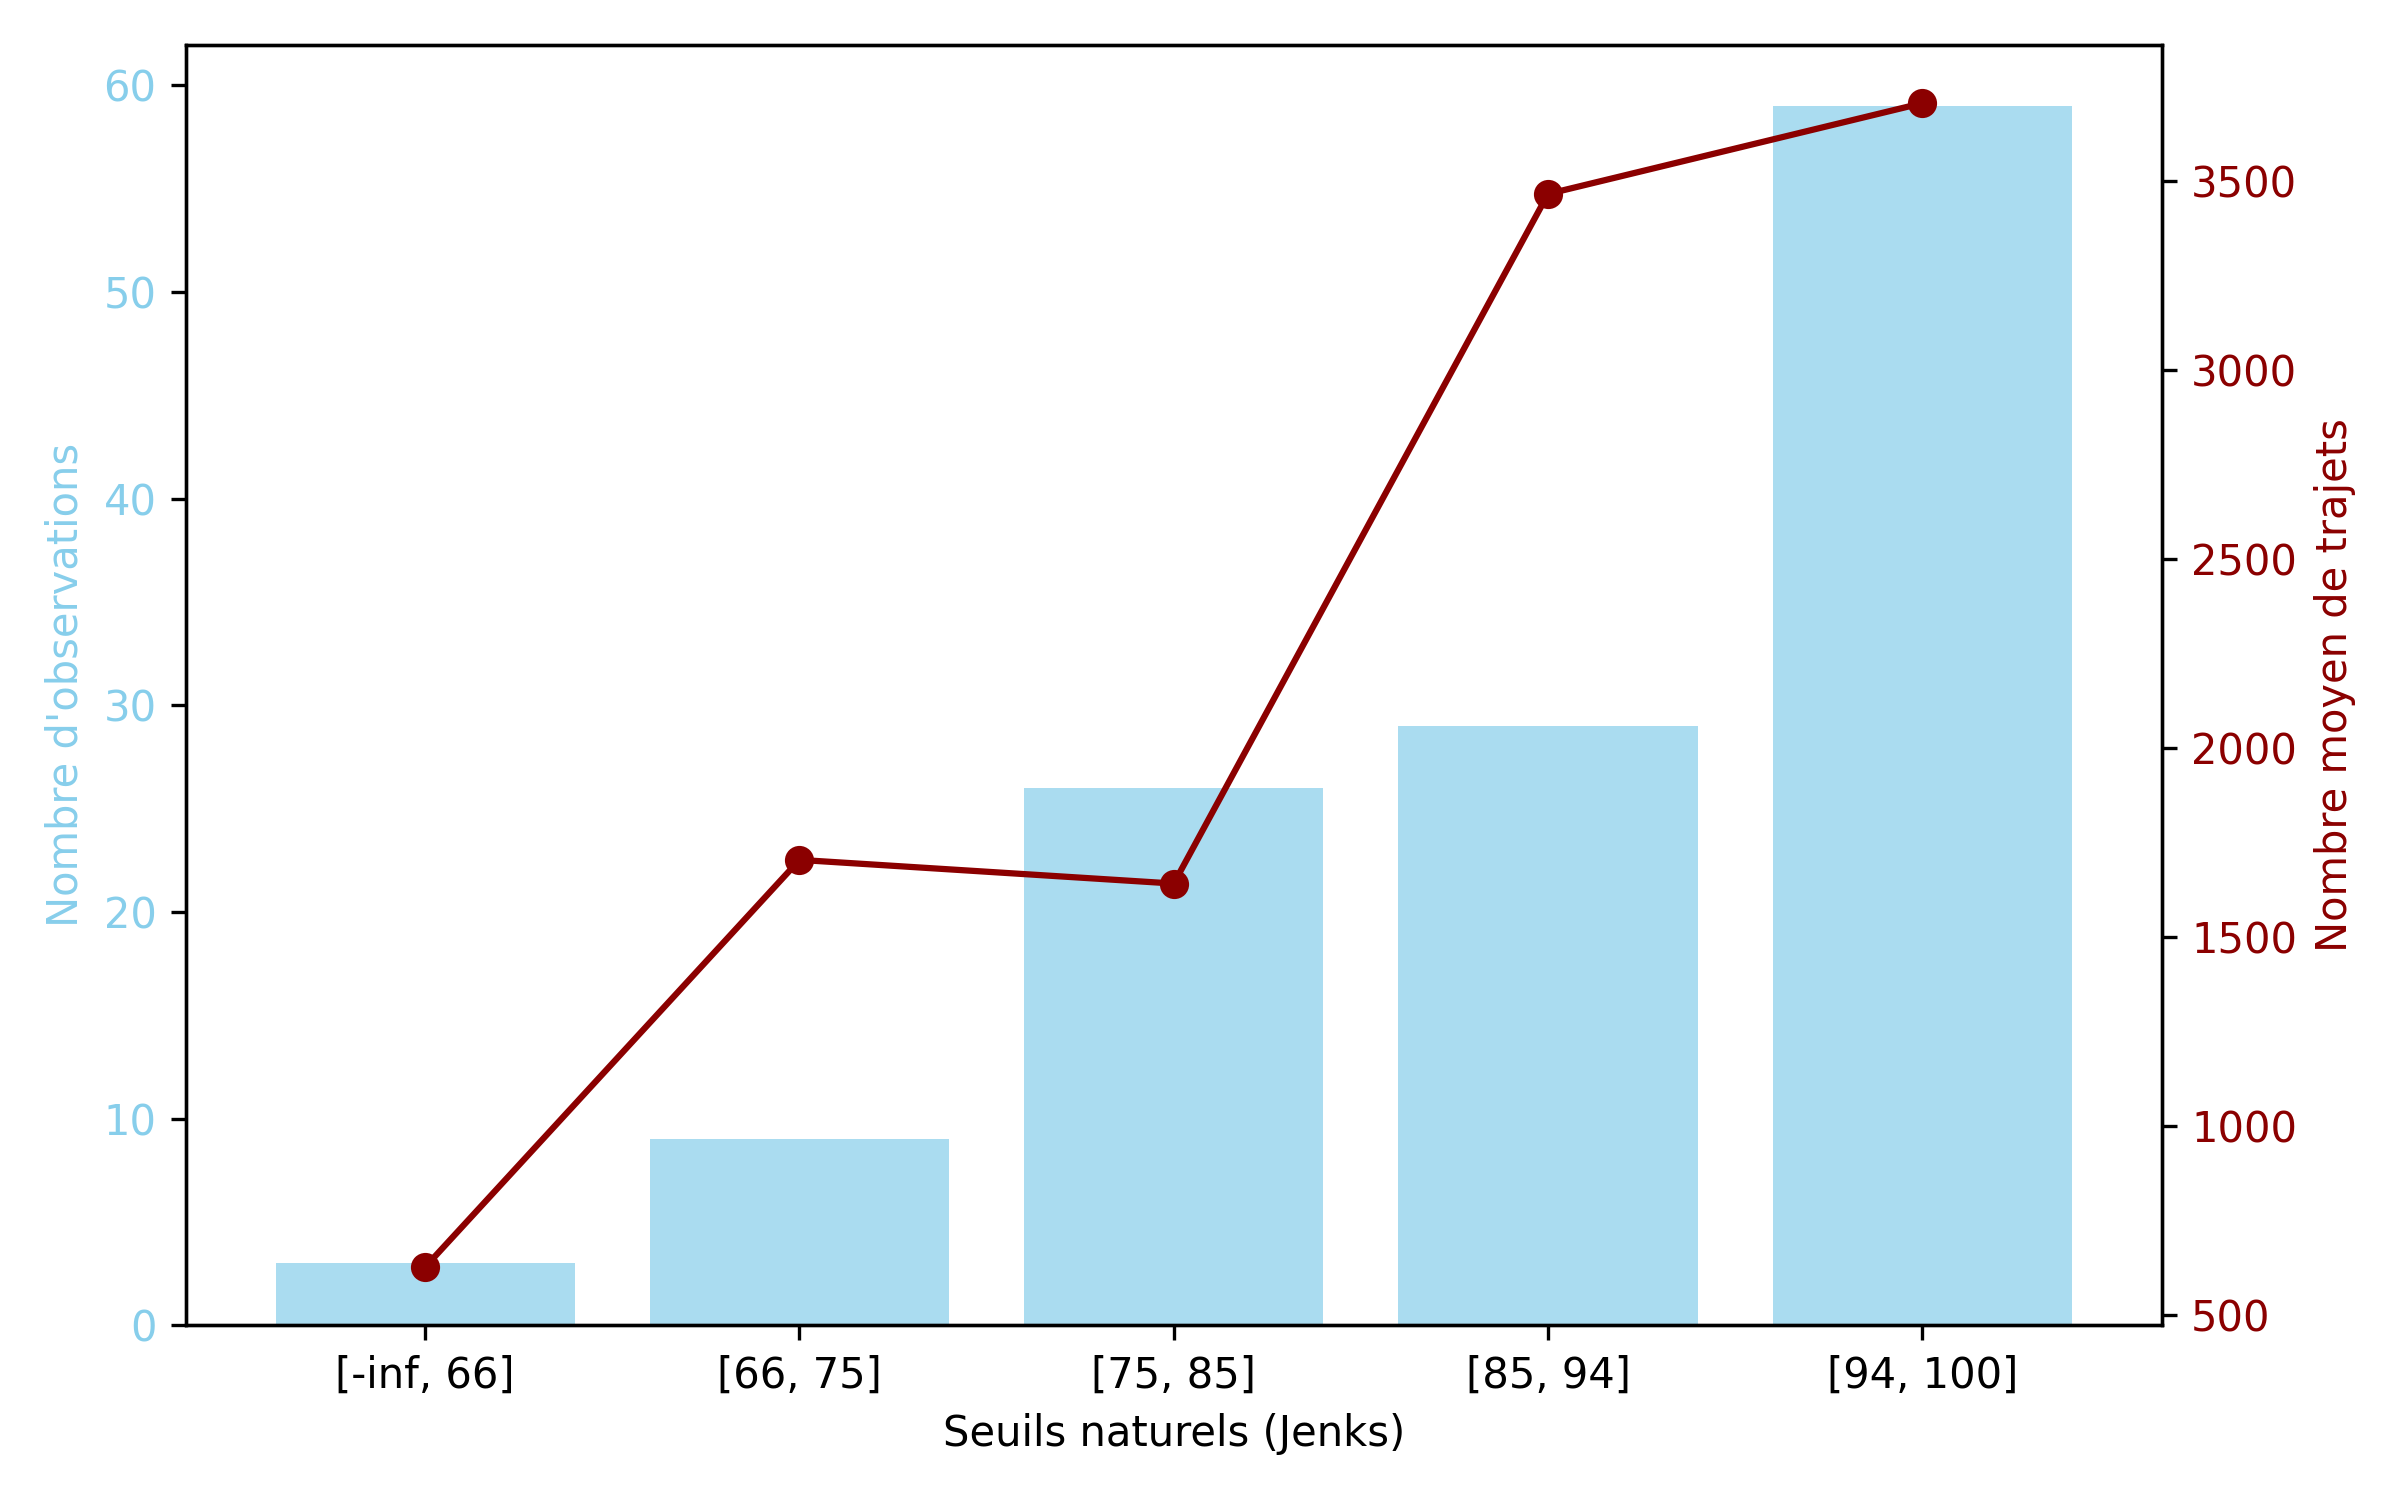
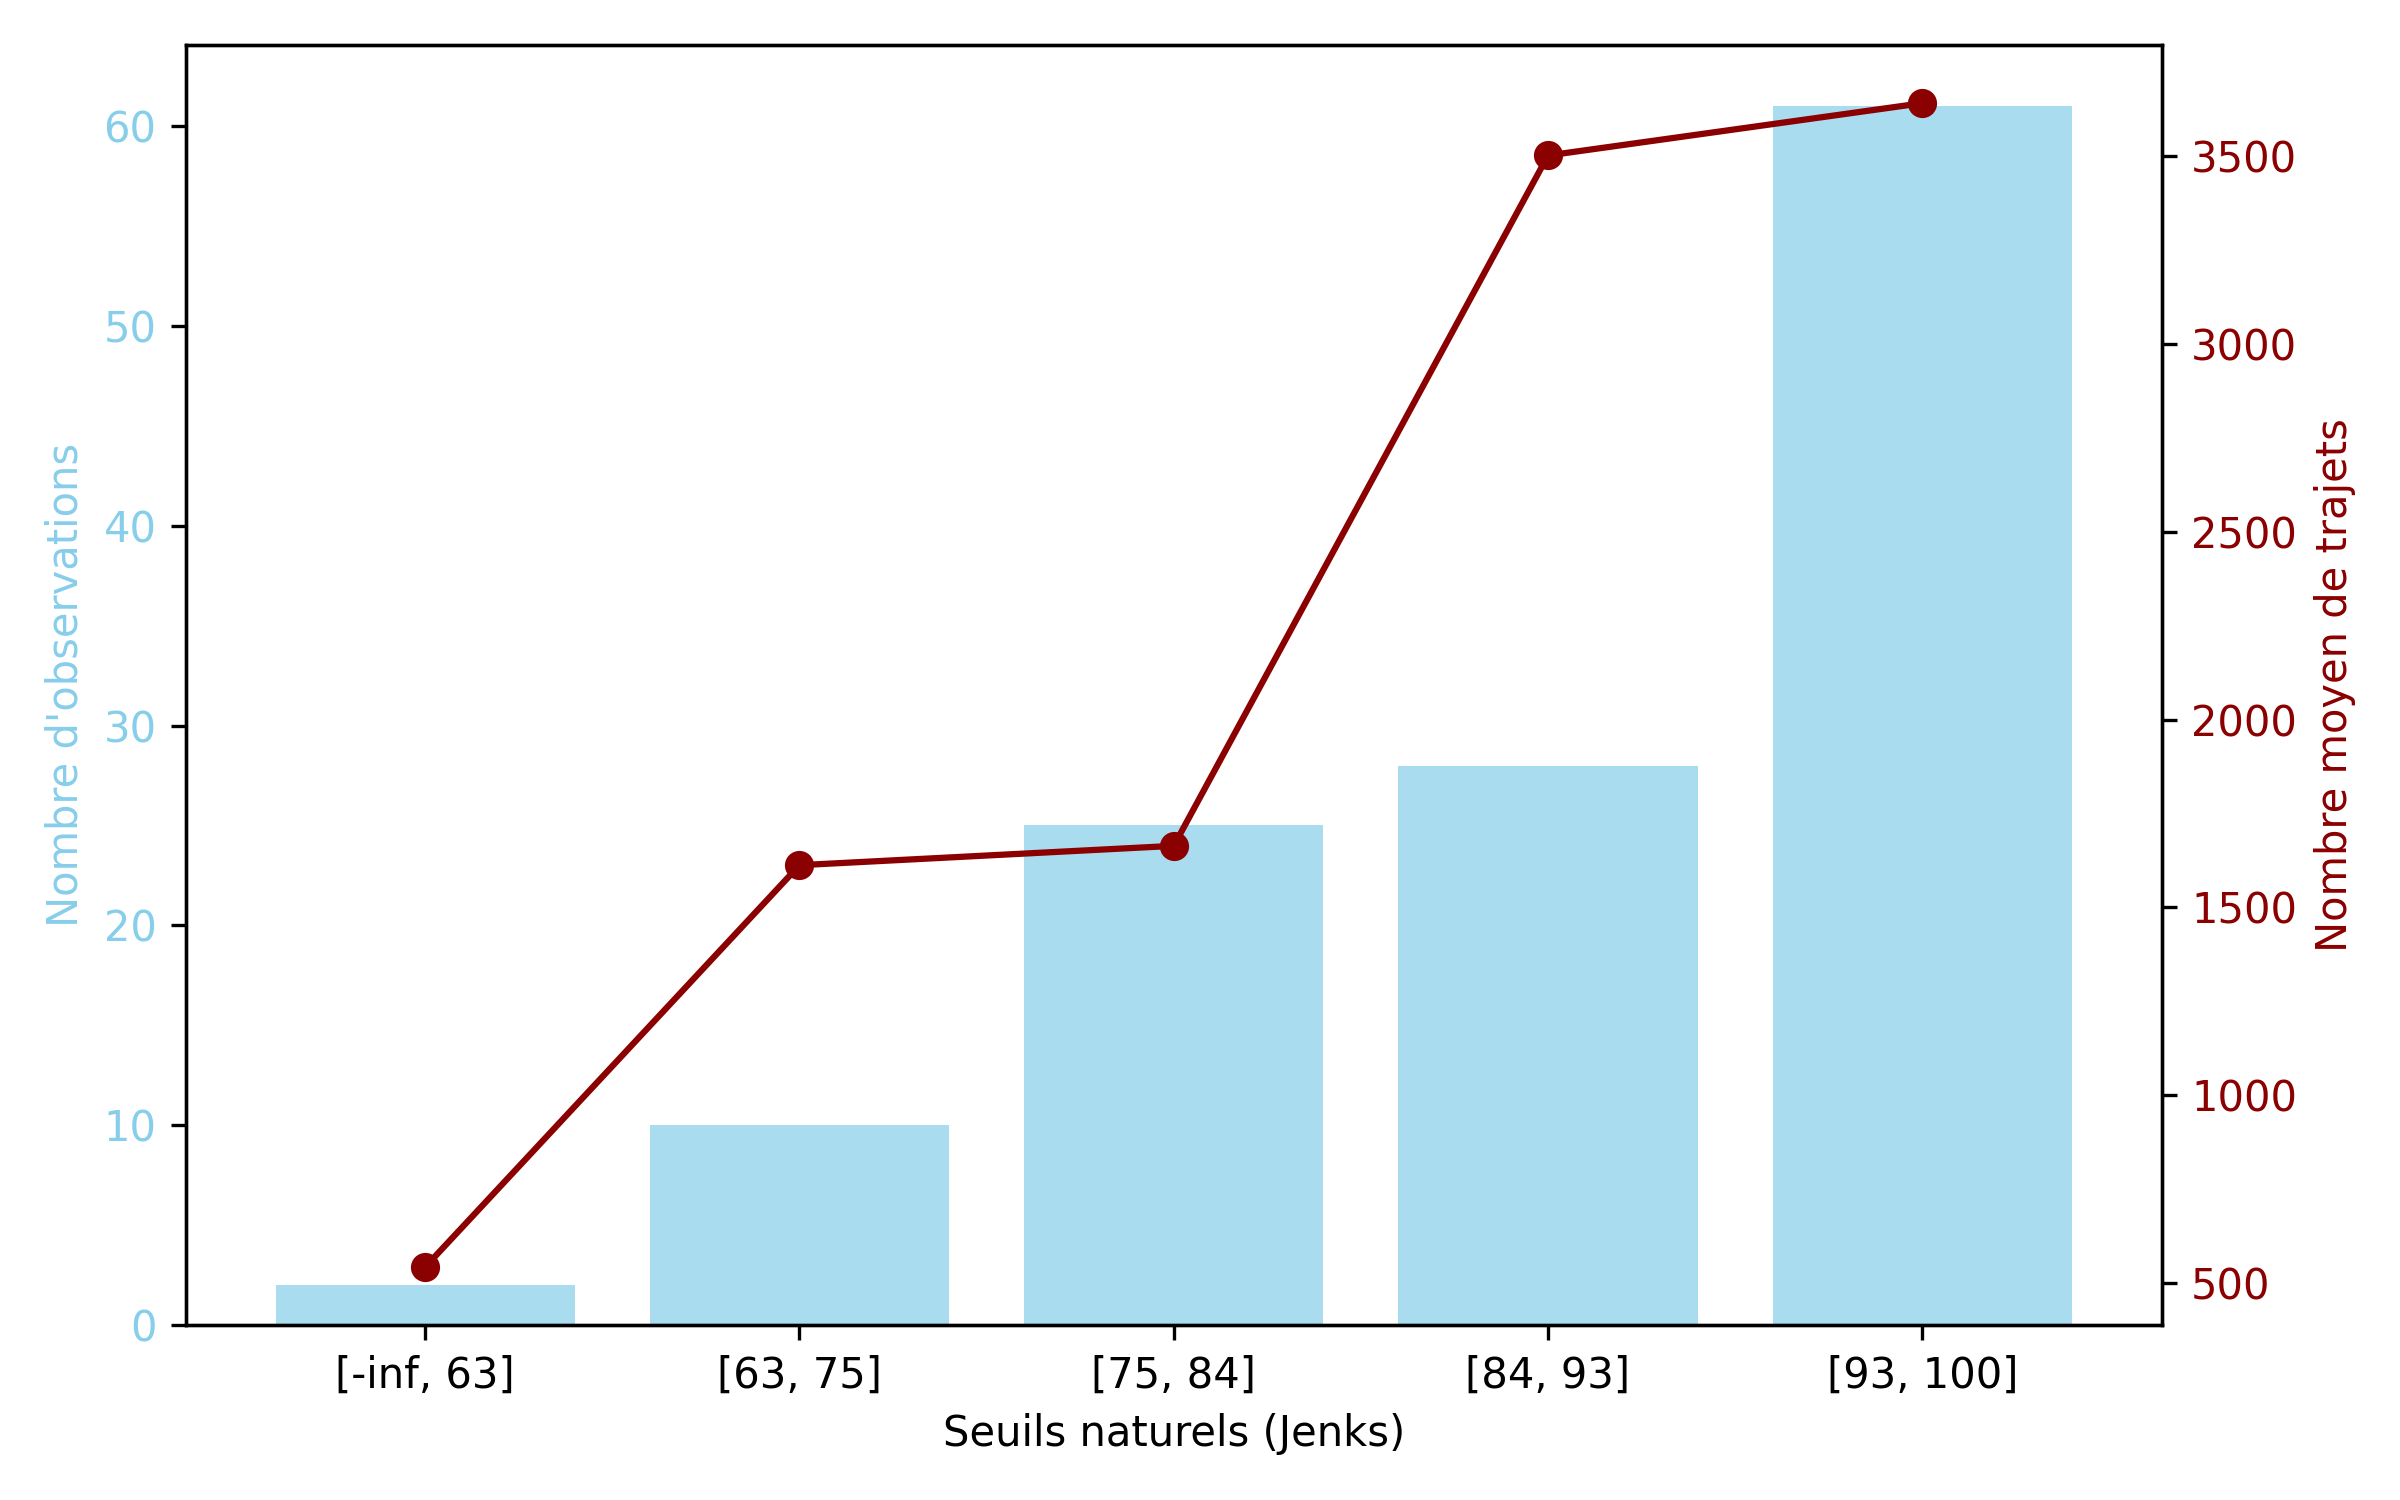
manual bins nb_ec_supp

diff --git a/scripts/visuals/generate_visuals.py b/scripts/visuals/generate_visuals.py
@@ -292,7 +292,8 @@ def main():
     #                  correlation_csv=f"../../output/{season}/correlations.csv", decimals=0)
 
     analyser_relation(hexagones, "nb_ec_supp", "nb_trajets", f"{season}/nb_ec_supp_vs_trajets",
-                      correlation_csv=f"../../output/{season}/correlations.csv", decimals=0)
+                      correlation_csv=f"../../output/{season}/correlations.csv", decimals=0,
+                      manual_bins=[0, 1, 2, 3,4, 5, 6])
 
     analyser_zonage(hexagones, output_path=f"../../output/{season}/zonage.png")
 
